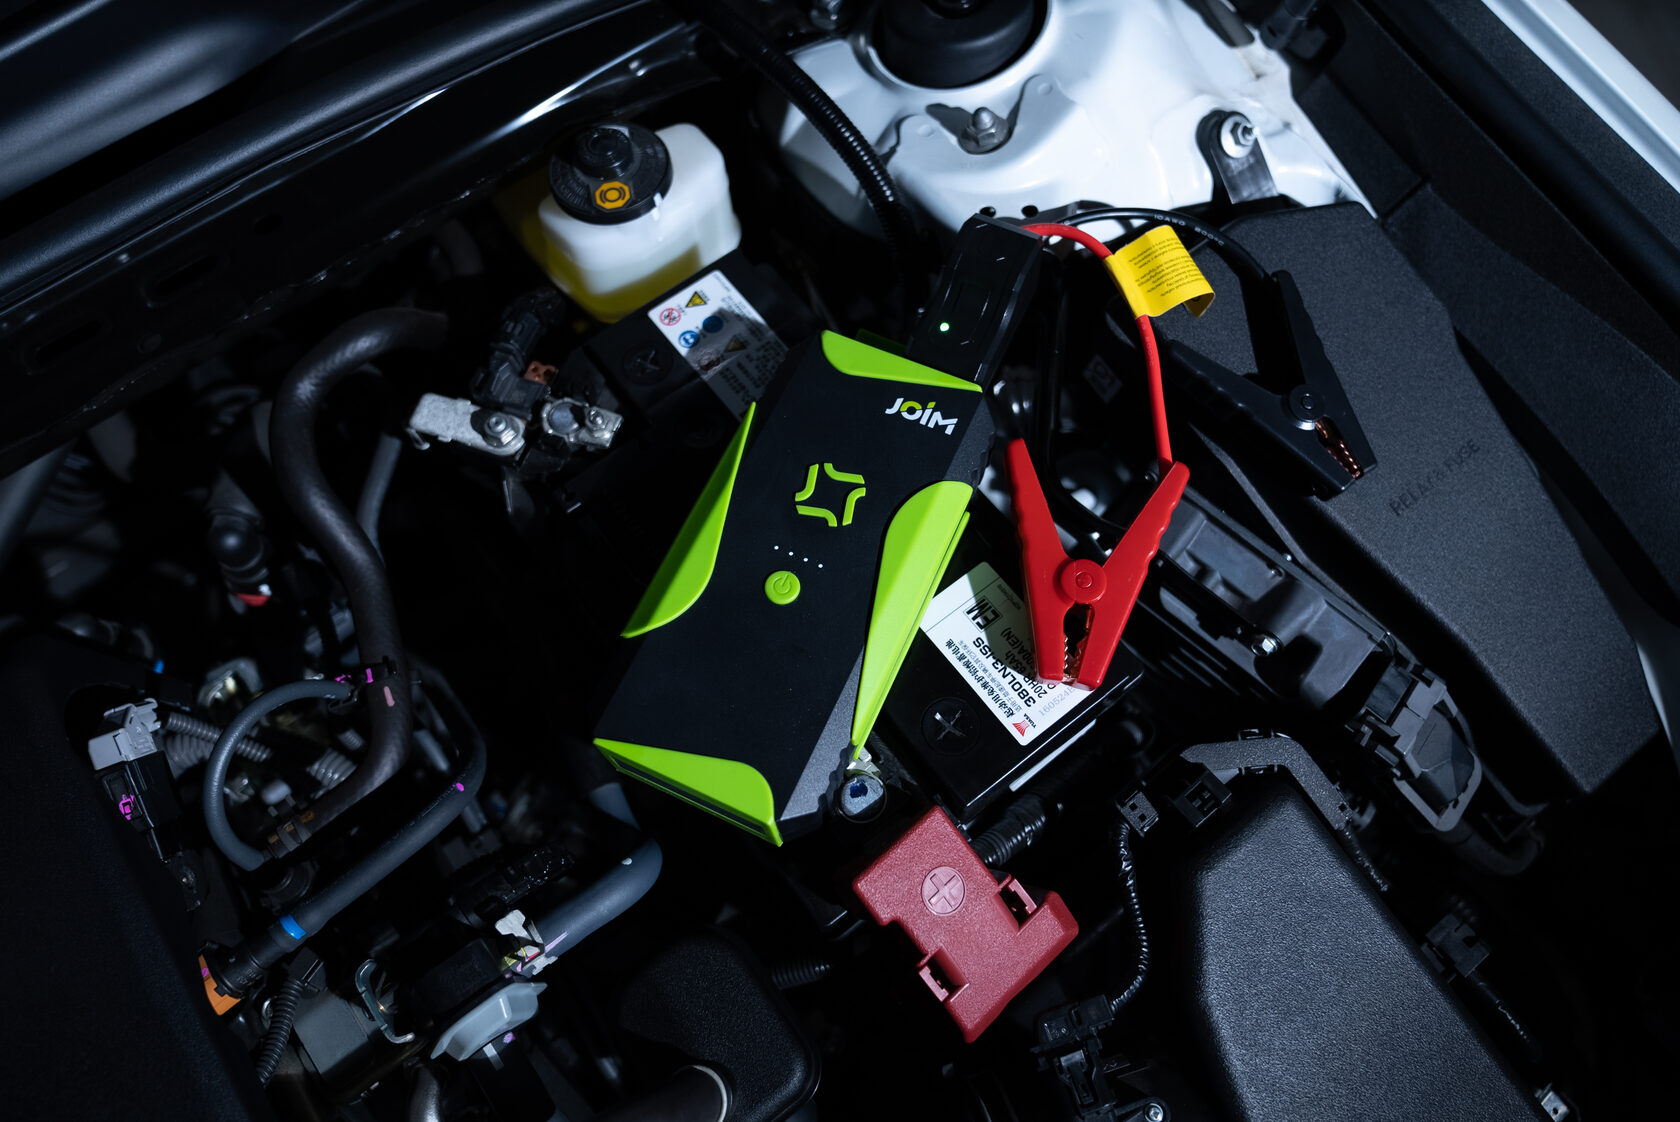
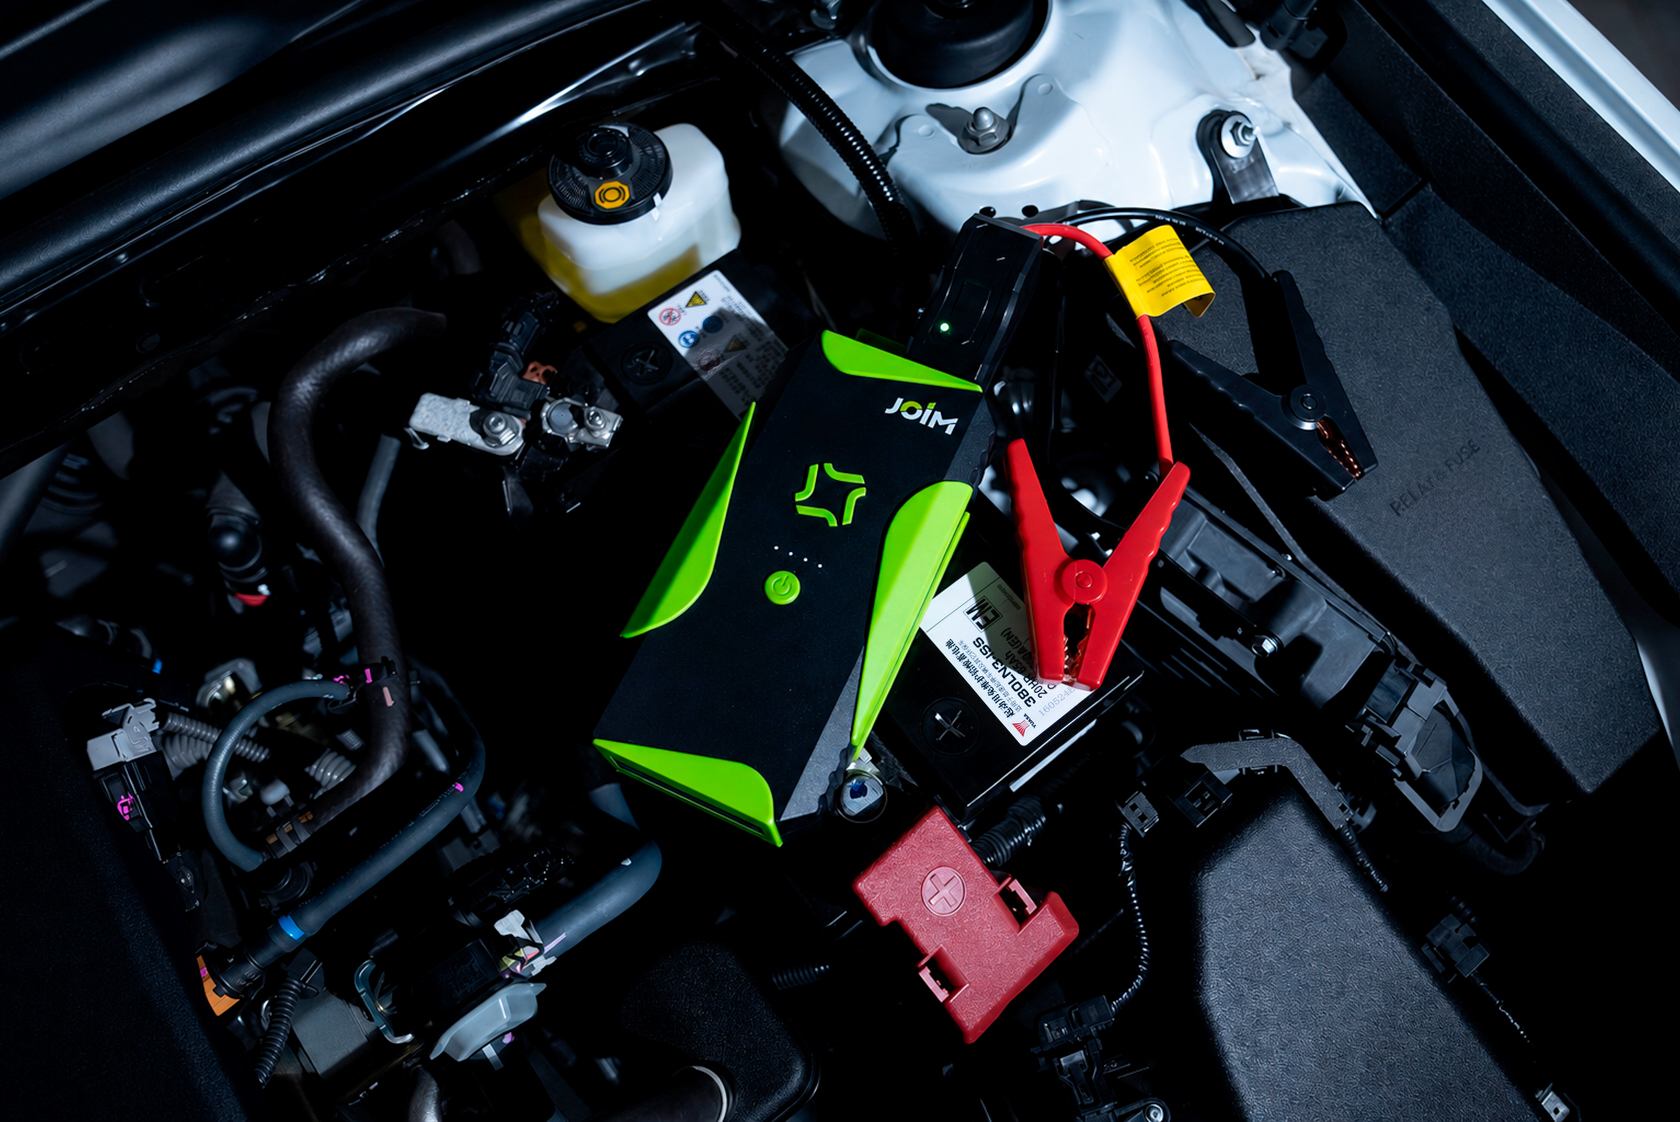
Первый кадр hero — присланный заказчиком снимок
Тот же подкапотный сюжет, прибор снят ближе. Окно берётся целиком
по высоте: подрезка делала прибор великаном. Поле справа широкое,
поэтому зеркальное — как на втором кадре.

diff --git a/assets/scenes/SOURCES.md b/assets/scenes/SOURCES.md
@@ -10,7 +10,7 @@
 
 | Файл | Откуда | Где стоит |
 | --- | --- | --- |
-| `hero-1-source.jpg` | `…/18.12.24 (JOIM ES-19, ES-9)/Es-19/` | первый экран, кадр 1 |
+| `hero-1-source.jpg` | прислан заказчиком (14.08) | первый экран, кадр 1 |
 | `hero-2-source.jpg` | `…/Es-19/DSC09029.jpg` | первый экран, кадр 2 |
 | `lead-source.jpg` | `…/Es-19/DSC09178.jpg` | подложка анкеты |
 | `step-case-source.webp` | прислан заказчиком | «достать из кейса» |
@@ -20,3 +20,7 @@
 Второй кадр первого экрана и подложку анкеты заказчик прислал в 1280 px.
 На сайте они кадрируются, и присланного разрешения не хватало: взяты те же
 кадры с диска в 3000 px. Присланные файлы удалены как дубли.
+
+Кадр 1 заменён 14.08 на присланный заказчиком: тот же подкапотный сюжет,
+но прибор снят ближе и кадр чище по свету. Окно берётся целиком
+по высоте — любая подрезка делает прибор на первом экране великаном.
